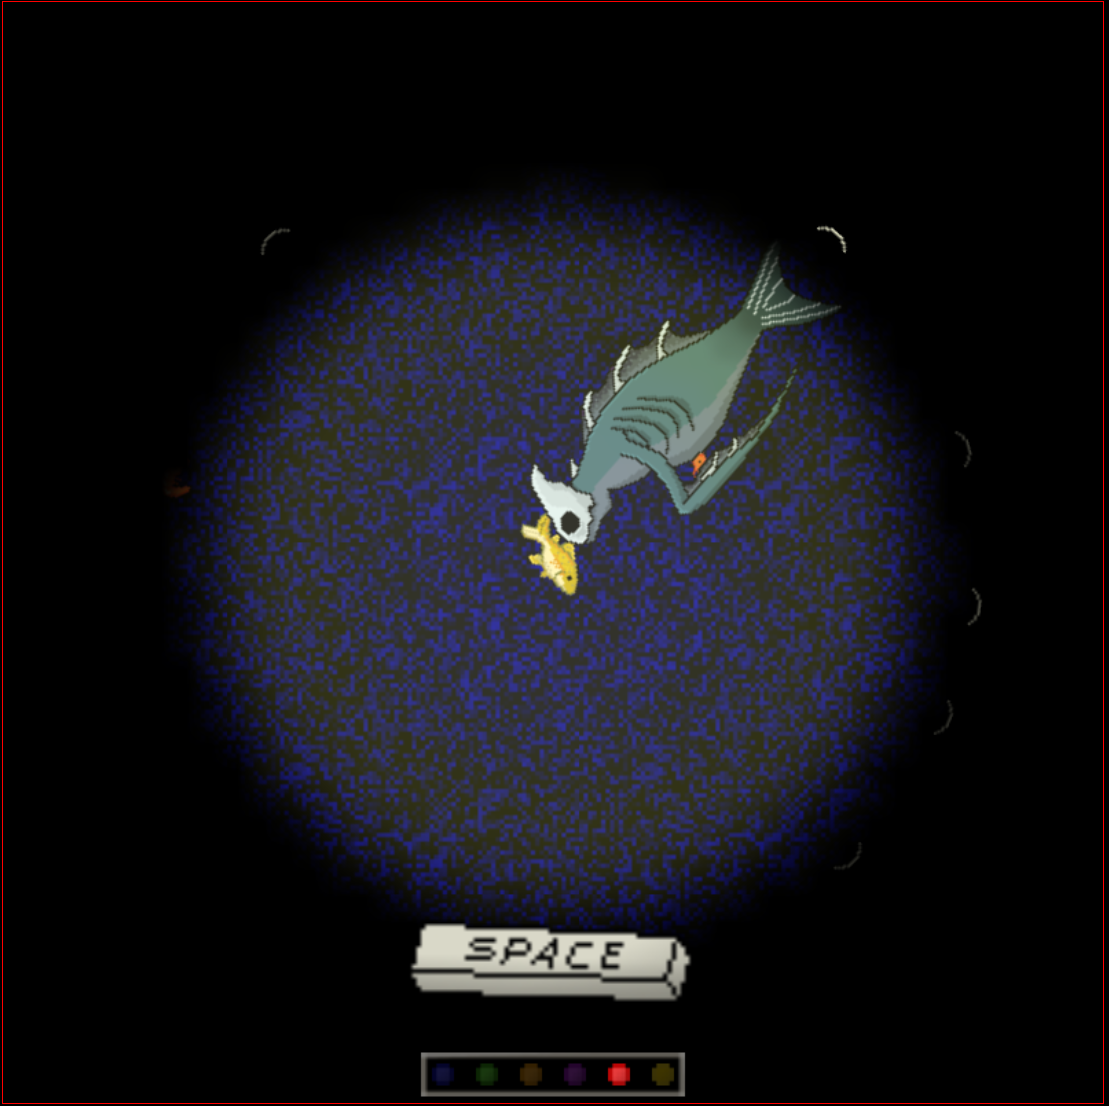
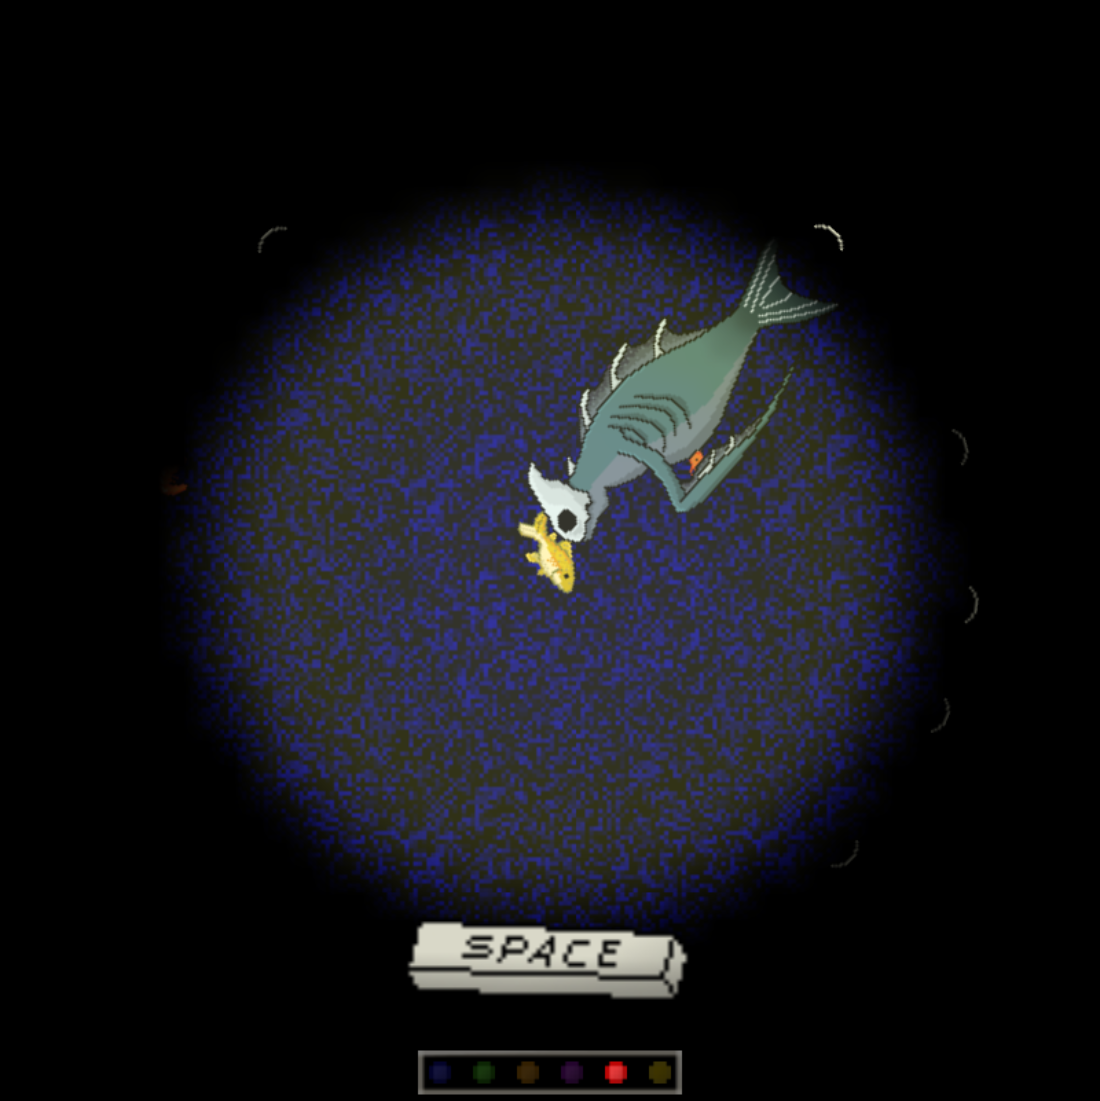
+(optimized blur, changed Block element to class)

diff --git a/src/Components/Block.js b/src/Components/Block.js
@@ -1,30 +1,51 @@
-import React from "react";
+import React, { Component } from "react";
 import { Link } from "react-router-dom";
 import "./Block.css";
 
 // Probably have to refactor this to a class in order to get a state to
 // handle the image for mouse events
-function Block({ inText, Dest, IMG, ALT, topFunction }) {
-  return (
-    <Link
-      onClick={topFunction}
-      onMouseEnter={mEnter}
-      onMouseLeave={mLeft}
-      className="box"
-      to={Dest}
-    >
-      <img className="b-img" src={IMG} alt={ALT} />
-      <h4 className="title">{inText}</h4>
-    </Link>
-  );
-}
+class Block extends Component {
+  // inText, Dest, IMG, ALT, topFunction
+  state = {
+    img_src: this.props.IMG,
+  };
+  constructor(props) {
+    super(props);
+    this.mEnter = this.mEnter.bind(this);
+    this.mLeave = this.mLeave.bind(this);
+  }
 
-function mEnter() {
-  //console.log("Enter");
-}
+  mEnter() {
+    //console.log("Enter");
+    let img = this.props.IMG;
+    img = img.slice(0, -4);
+    img += "-Blur.png";
+    this.setState({
+      img_src: img,
+    });
+  }
 
-function mLeft() {
-  //console.log("left");
+  mLeave() {
+    //console.log("left");
+    this.setState({
+      img_src: this.props.IMG,
+    });
+  }
+
+  render() {
+    return (
+      <Link
+        onClick={this.props.topFunction}
+        onMouseEnter={this.mEnter}
+        onMouseLeave={this.mLeave}
+        className="box"
+        to={this.props.Dest}
+      >
+        <img className="b-img" src={this.state.img_src} alt={this.props.ALT} />
+        <h4 className="title">{this.props.inText}</h4>
+      </Link>
+    );
+  }
 }
 
 export default Block;

diff --git a/src/Pages/Home.css b/src/Pages/Home.css
@@ -1,13 +1,10 @@
 .Me_Parent {
-  height: 100%;
-  width: 100%;
   /*outline: rgb(31, 30, 35) solid 2px;*/
 }
 
 h1 {
-  font-size: 13vw;
   margin: 0px;
-  width: inherit;
+  font-size: 14vw;
   background-image: linear-gradient(
     91deg,
     #7d100c 0%,
@@ -18,7 +15,7 @@ h1 {
     #7d100c 100%
   );
   background-size: 200% auto;
-  background-clip: border-box;
+  background-clip: text;
   color: transparent;
   -moz-background-clip: text;
   -moz-text-fill-color: transparent;
@@ -41,6 +38,7 @@ h1 {
   }
 }
 
+/* Possibly change to grid or adjust flex layout based off of vw!!!! */
 .flex-container {
   display: flex;
 }
